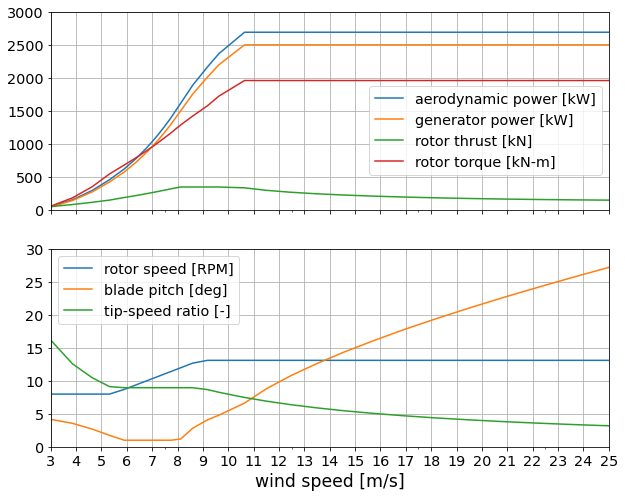
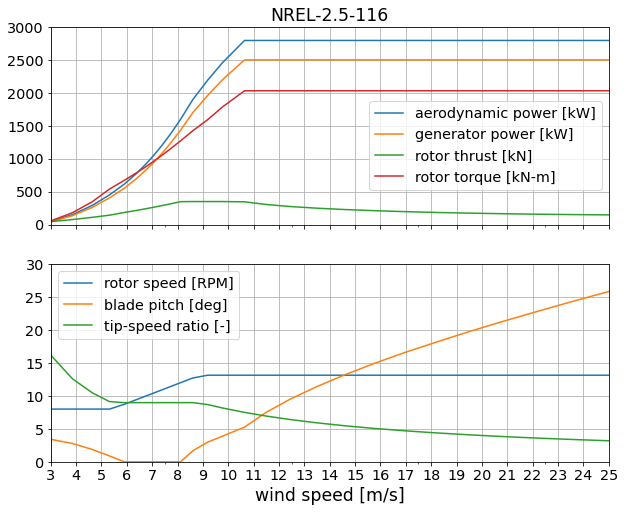
Update README with latest design

diff --git a/IEA-scaled/NREL-2.5-116/README.md b/IEA-scaled/NREL-2.5-116/README.md
@@ -2,17 +2,17 @@
 
 Design by [Eliot Quon](mailto:eliot.quon@nrel.gov), Pietro Bortolotti, and John Jasa
 
-| Design Variable | Value | Description |
-| --------------- | ----- | ----------- |
+| Design Variable        | Value  | Description |
+| ---------------------- | ------ | ----------- |
 | rated electrical power | 2.5 MW | specified |
-| diameter | 116 m | specified |
-| hub radius | 2 m | same as IEA-3.4-130 |
-| tower height | 80 m | specified |
-| tip-speed ratio | 9.0 | estimate, increased from IEA-3.4-130 (TSR=8.02) |
-| cut-in wind speed | 3 m/s | specified |
-| rated wind speed | 10.5 m/s | target |
-| cut-out wind speed | 25 m/s | specified |
-| peak shaving | 25% | estimate |
+| diameter               | 116 m  | specified |
+| hub radius             | 2 m    | same as IEA-3.4-130 |
+| tower height           | 80 m   | specified |
+| tip-speed ratio        | 9.0    | estimate, increased from IEA-3.4-130 (TSR=8.02) |
+| minimum rotor speed    | 8 RPM  | estimate, increased from IEA-3.4-130 (6.9 RPM) |
+| maximum rotor speed    | 14 RPM | estimate, increased from IEA-3.4-130 (12.1 RPM) |
+| rated tip speed        | 85 m/s | estimate |
+| peak shaving           | 25%    | estimate |
 
 ![Turbine Performance](WISDEM/figures/NREL-2.5-116_design_overview.png)
 
